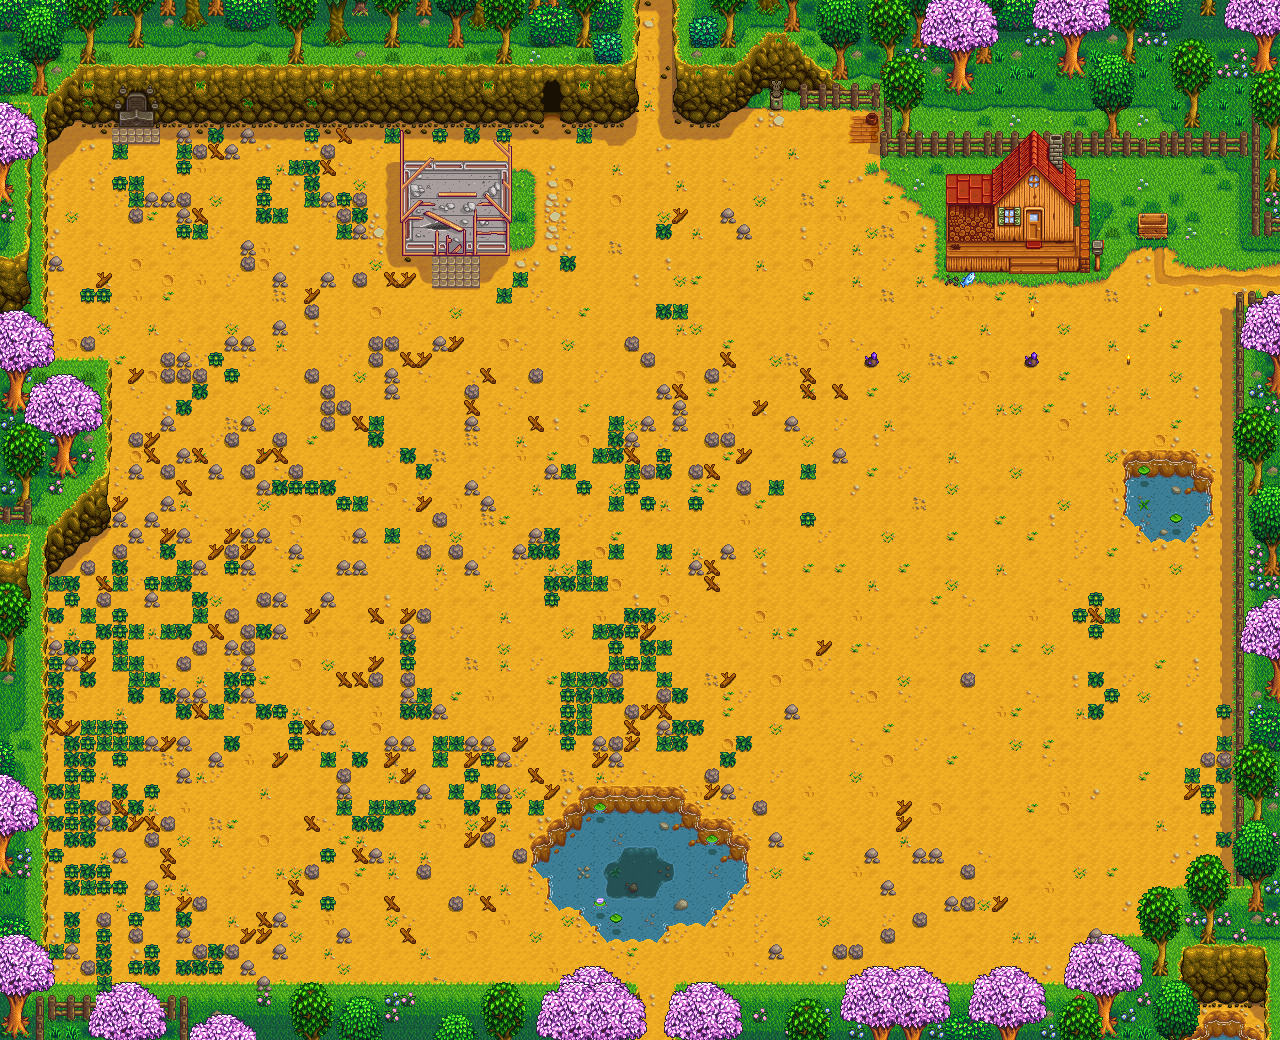
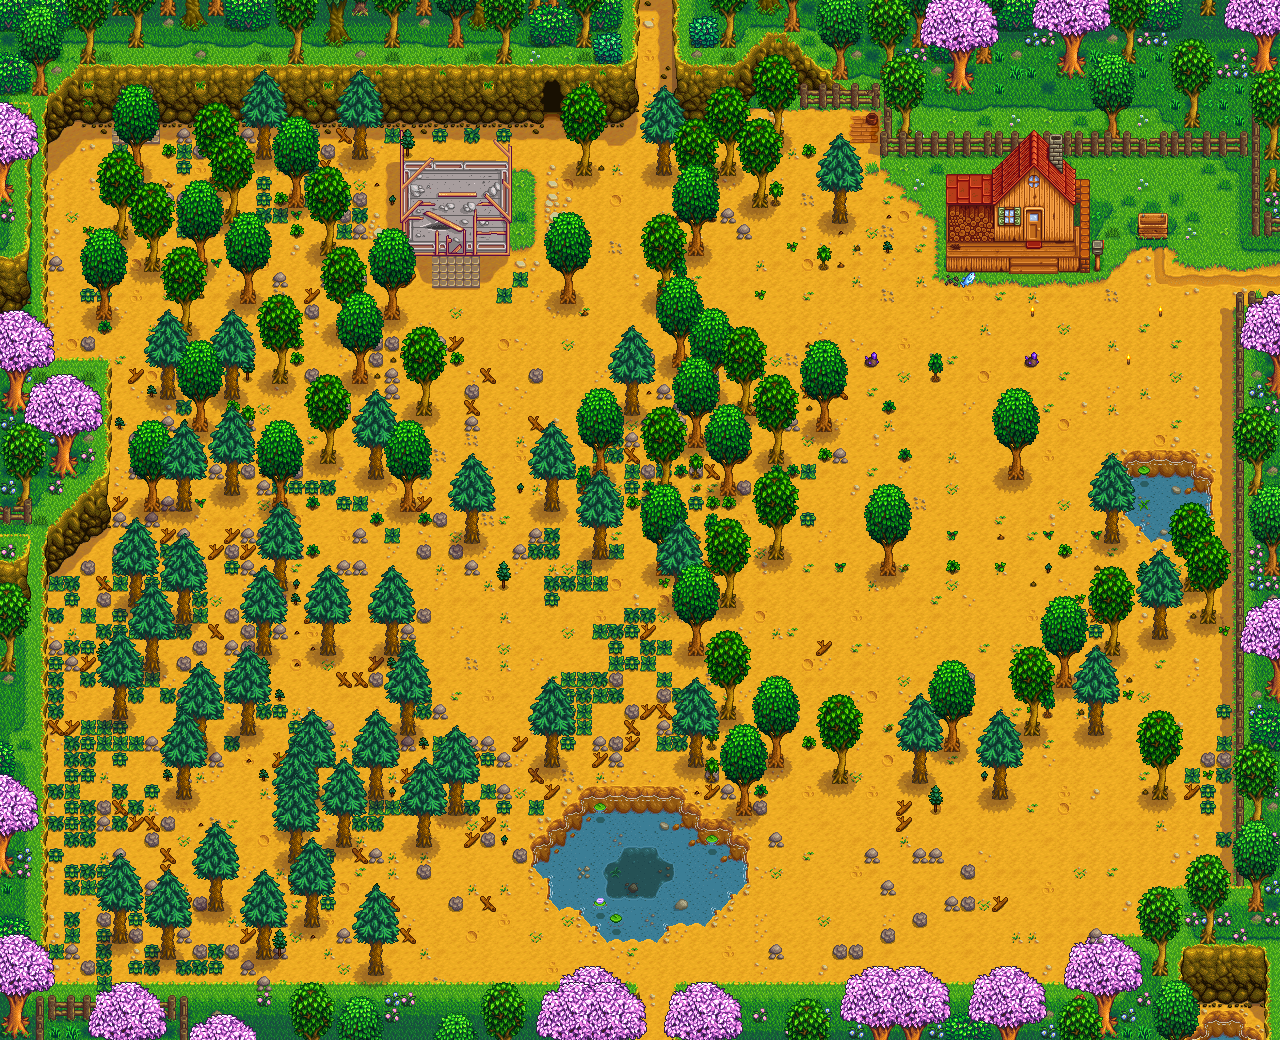
screenshot with trees!

diff --git a/view/draw.go b/view/draw.go
@@ -1,6 +1,7 @@
 package view
 
 import (
+	"fmt"
 	"image"
 	"image/color"
 	"image/draw"
@@ -12,6 +13,10 @@ import (
 	"github.com/nictuku/stardew-rocks/parser"
 )
 
+func xnaRect(x0, y0, width, height int) image.Rectangle {
+	return image.Rect(x0, y0, x0+width, y0+height)
+}
+
 func tileCoordinates(id int, tileWidth, tileHeight, tilemapWidth int) (x0, y0 int) {
 	numColumns := tilemapWidth / tileWidth
 	y0 = id / numColumns * tileHeight
@@ -21,7 +26,21 @@ func tileCoordinates(id int, tileWidth, tileHeight, tilemapWidth int) (x0, y0 in
 
 var mask = image.NewUniform(color.Alpha{255})
 
+var treeRects = map[int]image.Rectangle{
+	0: xnaRect(32, 128, 16, 16),
+	1: xnaRect(0, 128, 16, 16),
+	2: xnaRect(16, 128, 16, 16),
+	3: xnaRect(0, 96, 16, 32),
+	4: xnaRect(0, 96, 16, 32),
+}
+
+func treeAsset(treeType int) string {
+	return fmt.Sprintf("../TerrainFeatures/tree%d_spring.png", treeType) // TODO: other seasons
+}
+
 func WriteImage(pm *parser.Map, sg *parser.GameLocation, w io.Writer) {
+
+	// TODO: do not trust the user input. Don't hit files or slice indexes based on data.
 	m := pm.TMX
 
 	dirt := &image.Uniform{color.RGBA{0xEE, 0xAC, 0x24, 0xFF}}
@@ -55,9 +74,6 @@ func WriteImage(pm *parser.Map, sg *parser.GameLocation, w io.Writer) {
 			}
 		}
 	}
-	// path: ../TerrainFeatures/tree1_spring
-	// sg.TerrainFeatures.Items[0].Value.TerrainFeature.TreeType
-
 	{
 		p := "../Buildings/houses.png"
 		src, err := pm.FetchSource(p)
@@ -97,6 +113,74 @@ func WriteImage(pm *parser.Map, sg *parser.GameLocation, w io.Writer) {
 		}
 	}
 
+	{
+		// Order items to be displayed based on their Y order. Items with a higher Y should be drawn last.
+		items := make([][]*parser.TerrainItem, m.Height)
+		for i := range sg.TerrainFeatures.Items {
+			item := sg.TerrainFeatures.Items[i] // separate pointer for each item
+			items[item.Y()] = append(items[item.Y()], &item)
+		}
+
+		for _, row := range items {
+			for _, item := range row {
+				switch item.Value.TerrainFeature.Type {
+				case "Tree":
+					p := treeAsset(item.Value.TerrainFeature.TreeType)
+					src, err := pm.FetchSource(p)
+					if err != nil {
+						log.Printf("Error fetching terrain asset %v: %v", p, err)
+						continue
+					}
+					stage := item.Value.TerrainFeature.GrowthStage
+					if stage < 5 {
+						sr, ok := treeRects[stage]
+						if !ok {
+							log.Printf("Unknown tree rect for %v", item.Value.TerrainFeature.GrowthStage)
+							continue
+						}
+						fmt.Println("drawing tree", item.Key.Vector2.X*m.TileWidth, item.Key.Vector2.Y*m.TileHeight, stage)
+						r := sr.Sub(sr.Min).Add(image.Point{item.Key.Vector2.X * m.TileWidth, item.Key.Vector2.Y * m.TileHeight})
+						draw.DrawMask(img, r, src, sr.Min, mask, sr.Min, draw.Over)
+					} else {
+						{
+							// shadow
+							src, err := pm.FetchSource("../LooseSprites/Cursors.png")
+							if err != nil {
+								log.Printf("Error fetching terrain asset %v: %v", p, err)
+								continue
+							}
+							sr := xnaRect(663, 1011, 41, 30)
+							fmt.Println("drawing stump", item.Key.Vector2.X*m.TileWidth, item.Key.Vector2.Y*m.TileHeight, stage)
+							r := sr.Sub(sr.Min).Add(image.Point{item.Key.Vector2.X*m.TileWidth - m.TileWidth, // centralize
+								item.Key.Vector2.Y*m.TileHeight - 0, // vertical centralize
+							})
+							draw.DrawMask(img, r, src, sr.Min, mask, sr.Min, draw.Over)
+						}
+						{
+							// stump
+							sr := xnaRect(32, 96, 16, 32)
+							fmt.Println("drawing stump", item.Key.Vector2.X*m.TileWidth, item.Key.Vector2.Y*m.TileHeight, stage)
+							r := sr.Sub(sr.Min).Add(image.Point{item.Key.Vector2.X * m.TileWidth,
+								item.Key.Vector2.Y*m.TileHeight - m.TileHeight, // stump offset
+							})
+							draw.DrawMask(img, r, src, sr.Min, mask, sr.Min, draw.Over)
+						}
+						{
+							// tree
+							sr := image.Rect(0, 0, 48, 96)
+							fmt.Println("drawing tree", item.Key.Vector2.X*m.TileWidth, item.Key.Vector2.Y*m.TileHeight, stage)
+							r := sr.Sub(sr.Min).Add(image.Point{
+								item.Key.Vector2.X*m.TileWidth - m.TileWidth, // centralize
+								item.Key.Vector2.Y*m.TileHeight - 80,         // stump offset
+							})
+							draw.DrawMask(img, r, src, sr.Min, mask, sr.Min, draw.Over)
+						}
+					}
+				}
+
+			}
+		}
+	}
 	if err := png.Encode(w, img); err != nil {
 		panic(err)
 	}

diff --git a/parser/parse_savegame.go b/parser/parse_savegame.go
@@ -81,7 +81,9 @@ type TerrainItemValue struct {
 }
 
 type TerrainFeature struct {
-	TreeType int `xml:"treeType"`
+	Type        string `xml:"type,attr"`
+	TreeType    int    `xml:"treeType"`
+	GrowthStage int    `xml:"growthStage"`
 }
 
 type ItemValue struct {
